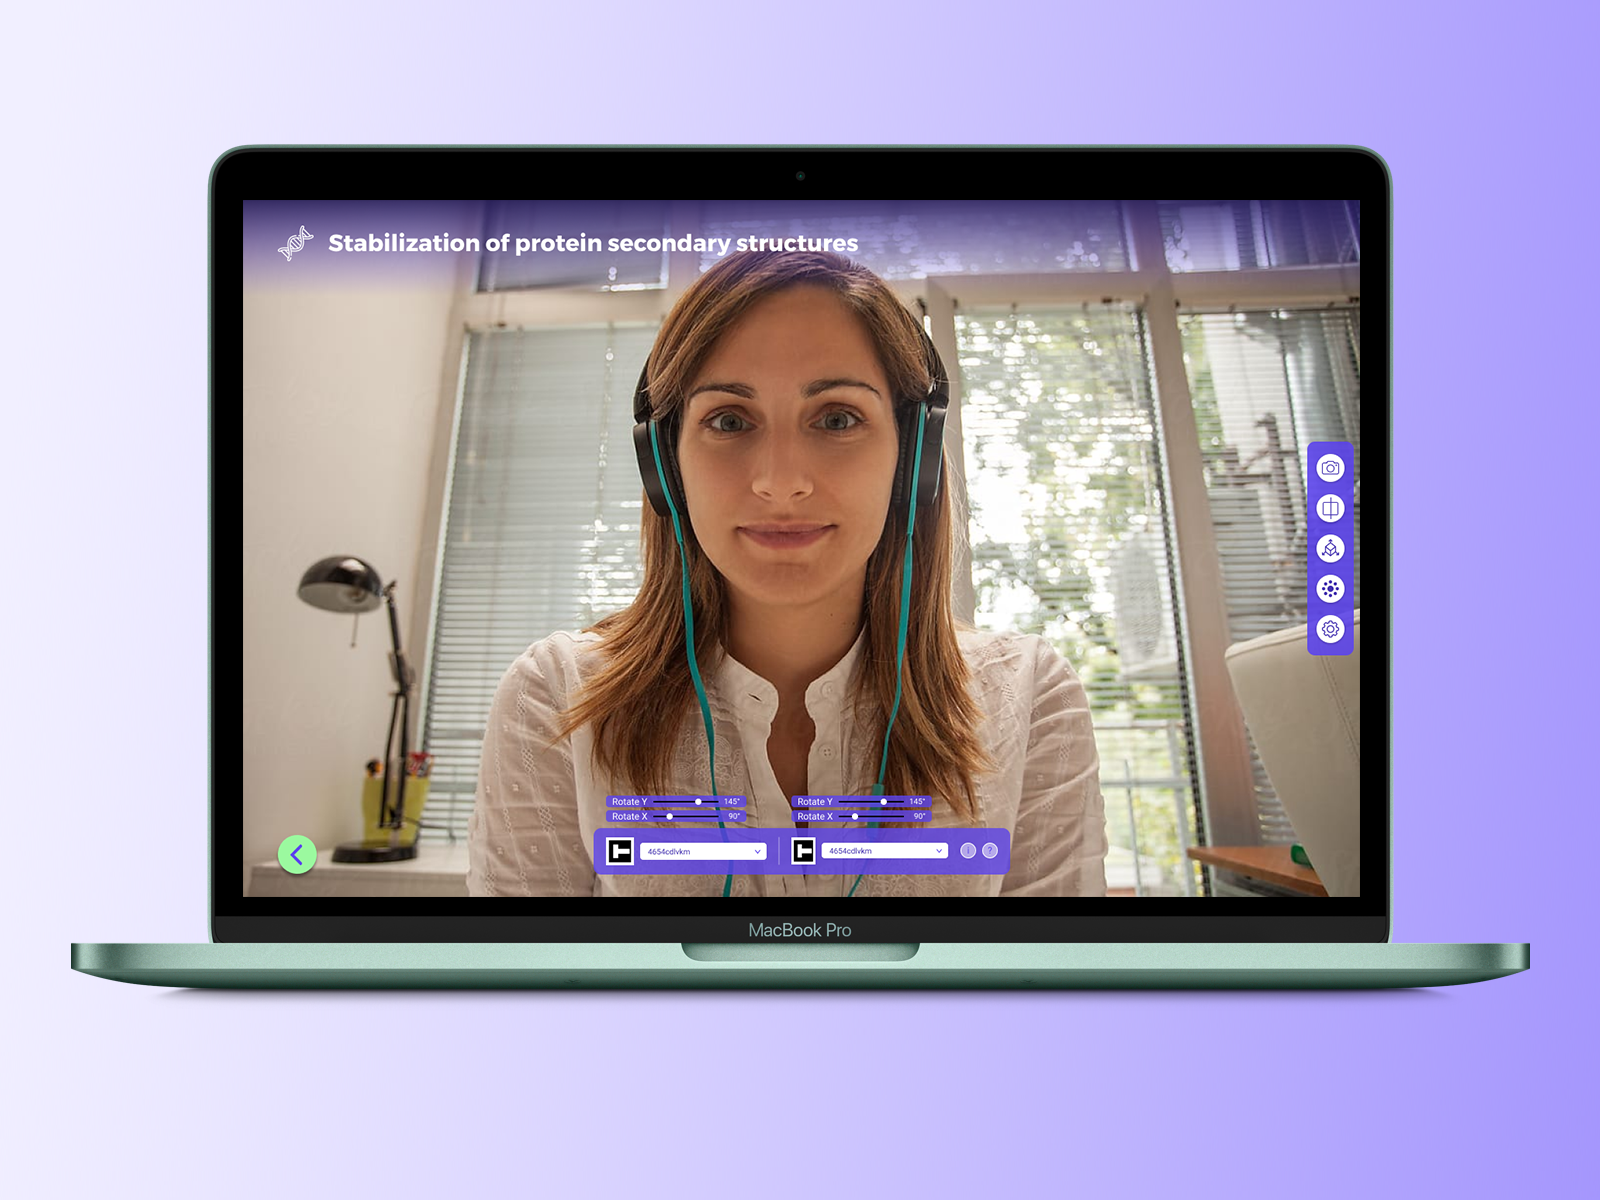
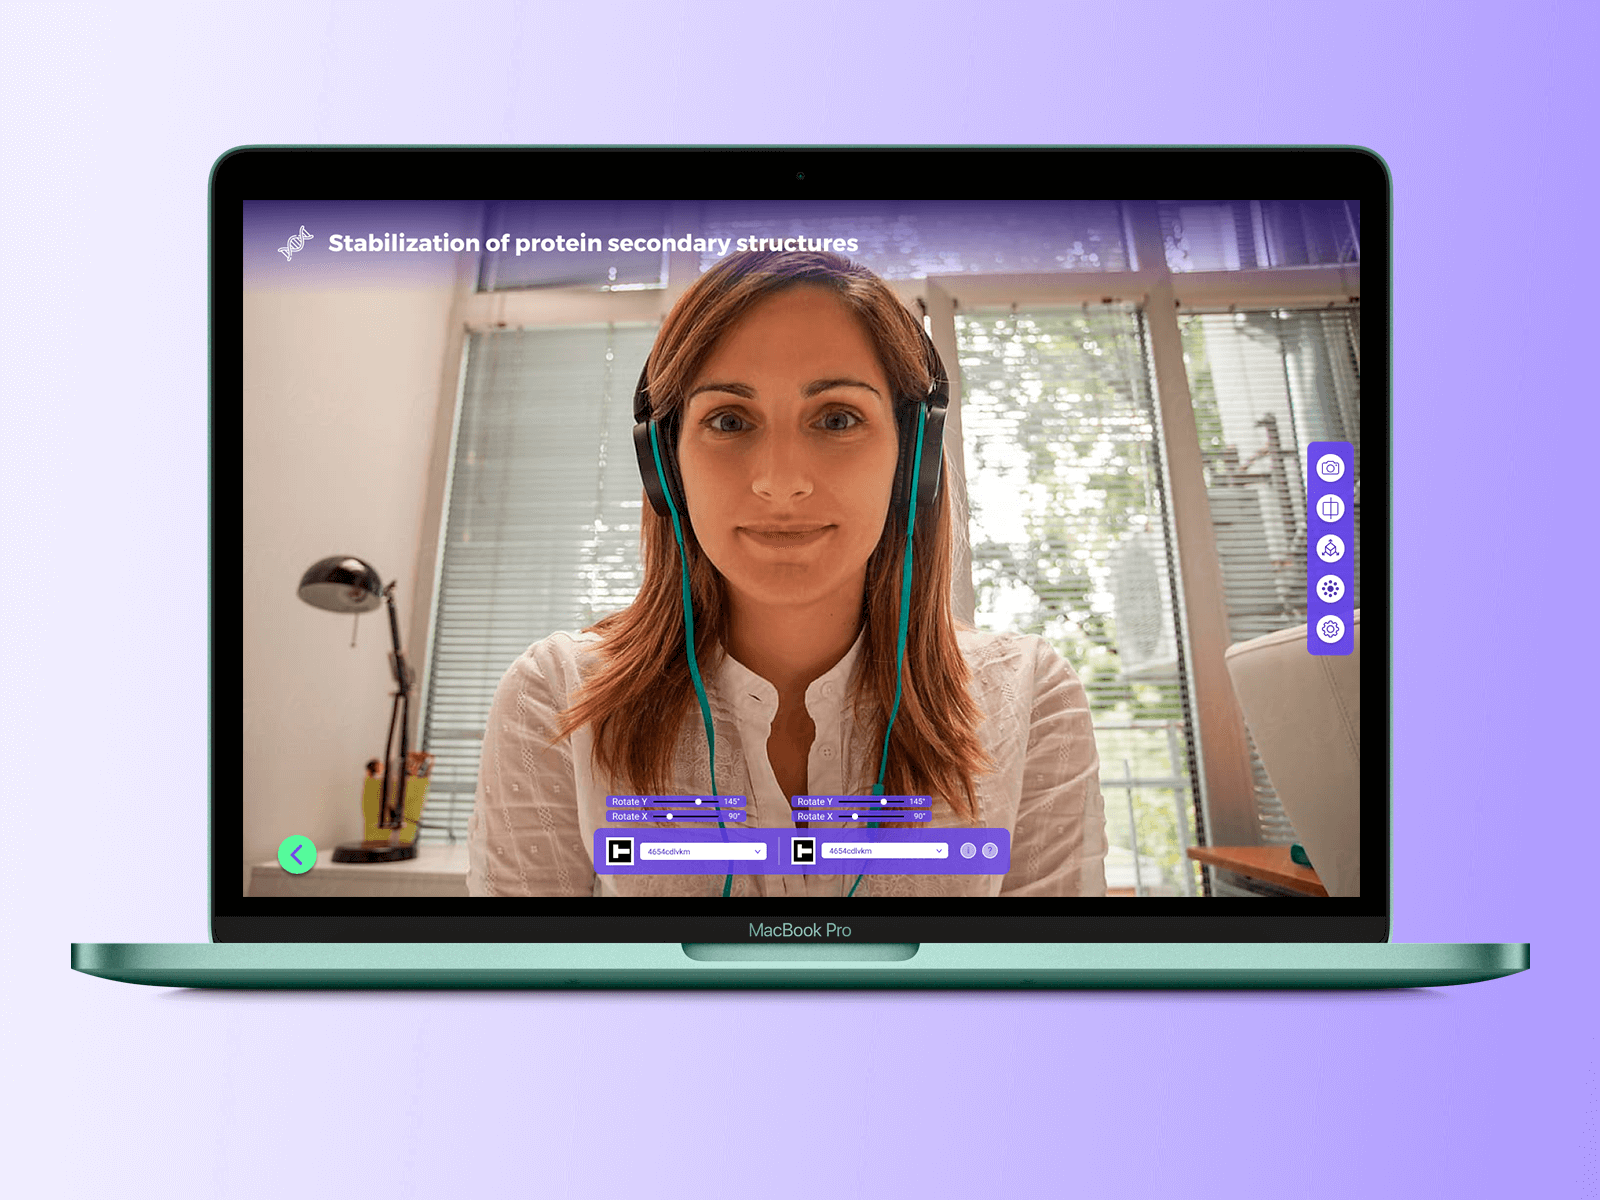
Se mejoro el responsive y se pasaron las imagenes de MoleculARweb por Tiny png

diff --git a/css/estilos.css b/css/estilos.css
@@ -363,6 +363,7 @@ li p{
   top: 0;
   left: 0;
   background: linear-gradient(22deg, rgb(26, 2, 41) -4%, rgba(0, 0, 0, 0) 48%);
+ 
 }
 
 .text {
@@ -625,6 +626,20 @@ object-fit: cover;
 
   .contact-button.contact-intern {
     top: -38px;
+  }
+}
+
+@media screen and (max-width: 426px){
+  .card-menu{
+    padding: 10px;
+  }
+
+  p.card {
+    font-size: 13px;
+  }
+
+  .card-detail{
+    margin: 0 4px;
   }
 }
 

diff --git a/projects/products.html b/projects/products.html
@@ -138,7 +138,7 @@
             <div class="text">
               <h3>Mealy</h3>
               <p>LEARN MORE</p>
-            </div>
+            </div>   
           </a>
         </div>
         <div class="project test">
